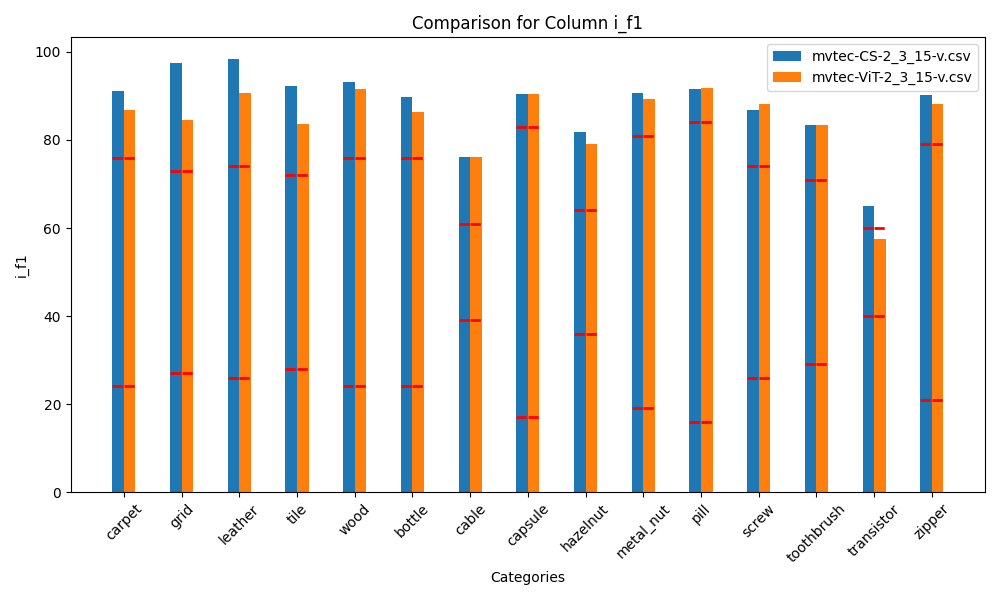
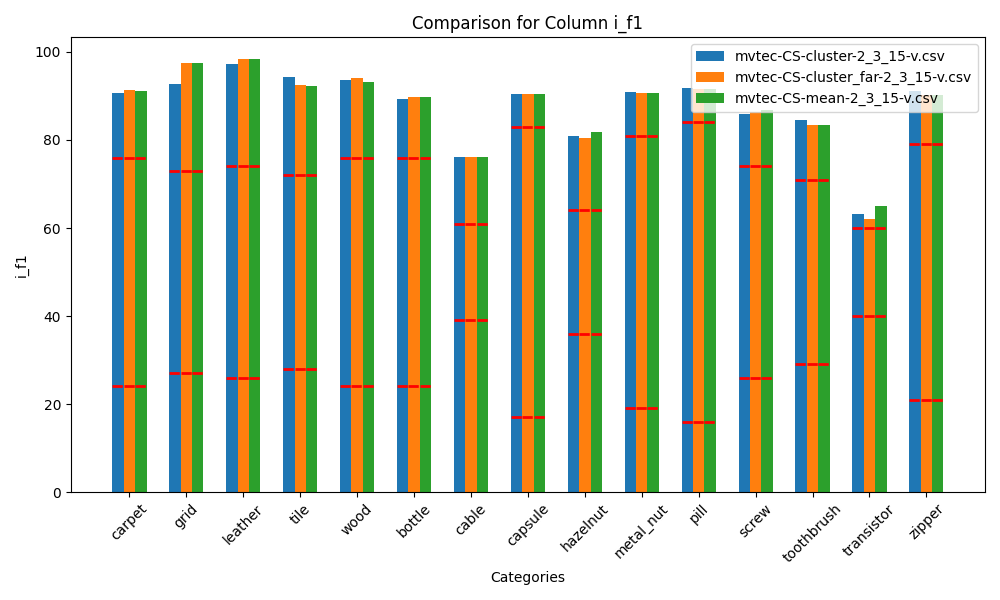
Update prompt visualization

diff --git a/CLIP_Surgery_zzx/model_inference.py b/CLIP_Surgery_zzx/model_inference.py
@@ -150,7 +150,7 @@ def encode_text_with_prompt_ensemble_anomaly(model, category, device):
     abnormal_text_features = model(abnormal_phrases)
     
     # visualize the group of features
-    prompt_feature_visualize(normal_text_features, abnormal_text_features)
+    # prompt_feature_visualize(normal_text_features, abnormal_text_features)
     
     text_features = []
     normal_text_features /= normal_text_features.norm(dim=-1, keepdim=True)
@@ -169,7 +169,7 @@ def encode_text_with_prompt_ensemble_anomaly(model, category, device):
     return [text_features]
 
 
-def encode_text_with_prompt_ensemble_anomaly_category(model, category, device):
+def encode_text_with_prompt_ensemble_anomaly_category(model, category, device, prompt_engineer):
     
     template_level_prompts = [
         'a cropped photo of the {}',
@@ -283,7 +283,12 @@ def encode_text_with_prompt_ensemble_anomaly_category(model, category, device):
     centroid_normal_text_features, centroid_abnormal_text_features = centroid_feature_engineer(normal_text_features, abnormal_text_features)
     prompt_feature_visualize_4_groups(normal_text_features, abnormal_text_features, tot_nomral_text_features, tot_abnormal_text_features, centroid_normal_text_features, centroid_abnormal_text_features)
     
-    return text_features
+    if prompt_engineer == 'cluster':
+        return text_features
+    elif prompt_engineer == 'cluster_far':
+        centroid_text_features = [torch.from_numpy(centroid_normal_text_features),torch.from_numpy(centroid_abnormal_text_features)]
+        centroid_text_features = torch.cat(centroid_text_features, dim=0).to(device)
+        return [centroid_text_features]
 
 import matplotlib.pyplot as plt
 from sklearn.manifold import TSNE
@@ -377,10 +382,10 @@ def prompt_feature_visualize_4_groups(
     plt.scatter(group2_embeddings[:, 0], group2_embeddings[:, 1], label='Anomaly', c='r', marker='o')
     plt.scatter(tot_group1_embeddings[:, 0], tot_group1_embeddings[:, 1], label='Normal Cluster Centroid', c='b',  marker='x')
     plt.scatter(tot_group2_embeddings[:, 0], tot_group2_embeddings[:, 1], label='Anomaly Cluster Centroid', c='r',  marker='x')
-    plt.scatter(group1_mean_embeddings[:, 0], group1_mean_embeddings[:, 1], label='Normal Centroid', c='g',  marker='x', linewidth=2, s=100)
-    plt.scatter(group2_mean_embeddings[:, 0], group2_mean_embeddings[:, 1], label='Anomaly Centroid', c='k',  marker='x', linewidth=2, s=100)
-    plt.scatter(group1_centroid_embeddings[:, 0], group1_centroid_embeddings[:, 1], label='Anomaly Centroid', c='g',  marker='D', linewidth=2, s=100)
-    plt.scatter(group2_centroid_embeddings[:, 0], group2_centroid_embeddings[:, 1], label='Anomaly Centroid', c='k',  marker='D', linewidth=2, s=100)
+    plt.scatter(group1_mean_embeddings[:, 0], group1_mean_embeddings[:, 1], label='Normal Mean Centroid', c='g',  marker='x', linewidth=2, s=100)
+    plt.scatter(group2_mean_embeddings[:, 0], group2_mean_embeddings[:, 1], label='Anomaly Mean Centroid', c='k',  marker='x', linewidth=2, s=100)
+    plt.scatter(group1_centroid_embeddings[:, 0], group1_centroid_embeddings[:, 1], label='Normal Far Centroid', c='g',  marker='D', linewidth=2, s=100)
+    plt.scatter(group2_centroid_embeddings[:, 0], group2_centroid_embeddings[:, 1], label='Anomaly Far Centroid', c='k',  marker='D', linewidth=2, s=100)
     
     
     # for i in range(group1_embeddings.shape[0]):

diff --git a/CLIP_Surgery_zzx/main.py b/CLIP_Surgery_zzx/main.py
@@ -64,7 +64,7 @@ def run_winclip(classname, args):
     with torch.no_grad():
         metrics = test(model_text, model_image, preprocess, test_dataloader, device, is_vis=True, img_dir=img_dir,
                 class_name=kwargs['class_name'], cal_pro=kwargs['cal_pro'], train_data=train_dataloader,
-                resolution=kwargs['resolution'], prompt_contrast=kwargs['prompt_contrast'])
+                resolution=kwargs['resolution'], prompt_engineer=kwargs['prompt_engineer'])
     # for k, v in metrics.items():
     #     logger.info(f"{kwargs['class_name']}======={k}: {v:.2f}")
         
@@ -101,7 +101,7 @@ def get_args():
     parser.add_argument("--backbone", type=str, default="CS-ViT-B/16",
                         choices=['ViT-B-16-plus-240', 'CS-ViT-B/16', 'ViT-B/16'])
     parser.add_argument("--pretrained_dataset", type=str, default="laion400m_e32")
-    parser.add_argument("--prompt_contrast", type=bool, default="True")
+    parser.add_argument("--prompt_engineer", type=str, default="cluster_far", choices=['cluster', 'mean', 'cluster_far'])
 
     parser.add_argument("--use-cpu", type=int, default=0)
 

diff --git a/CLIP_Surgery_zzx/test.py b/CLIP_Surgery_zzx/test.py
@@ -25,13 +25,13 @@ def test(model_text,
          cal_pro: bool,
          train_data: DataLoader,
          resolution: int,
-         prompt_contrast: bool):
+         prompt_engineer: str):
 
     logger.info('begin build text feature gallery...')
-    if prompt_contrast:
-        text_features = encode_text_with_prompt_ensemble_anomaly_category(model_text, class_name, device)
-    else:
+    if prompt_engineer == 'mean':
         text_features = encode_text_with_prompt_ensemble_anomaly(model_text, class_name, device)
+    else:
+        text_features = encode_text_with_prompt_ensemble_anomaly_category(model_text, class_name, device, prompt_engineer)
         
     # model.build_text_feature_gallery(class_name)
     logger.info('build text feature gallery finished.')

diff --git a/CLIP_Surgery_zzx/utils/training_utils.py b/CLIP_Surgery_zzx/utils/training_utils.py
@@ -33,9 +33,8 @@ def get_dir_from_args(root_dir, class_name, **kwargs):
         scales_string = "_".join(str(scale) for scale in kwargs['scales'])
     attention_string = kwargs['attention_mode']
     backbone_string = kwargs['backbone'].split('-')[0]
-    if kwargs['prompt_contrast']:
-        backbone_string += '-contrast'
-    exp_name = f"{kwargs['dataset']}-{backbone_string}-{scales_string}-{attention_string}"
+    prompt_string = kwargs['prompt_engineer']
+    exp_name = f"{kwargs['dataset']}-{backbone_string}-{prompt_string}-{scales_string}-{attention_string}"
 
     # exp_name = f"{kwargs['dataset']}-{kwargs['k_shot']}"
 
